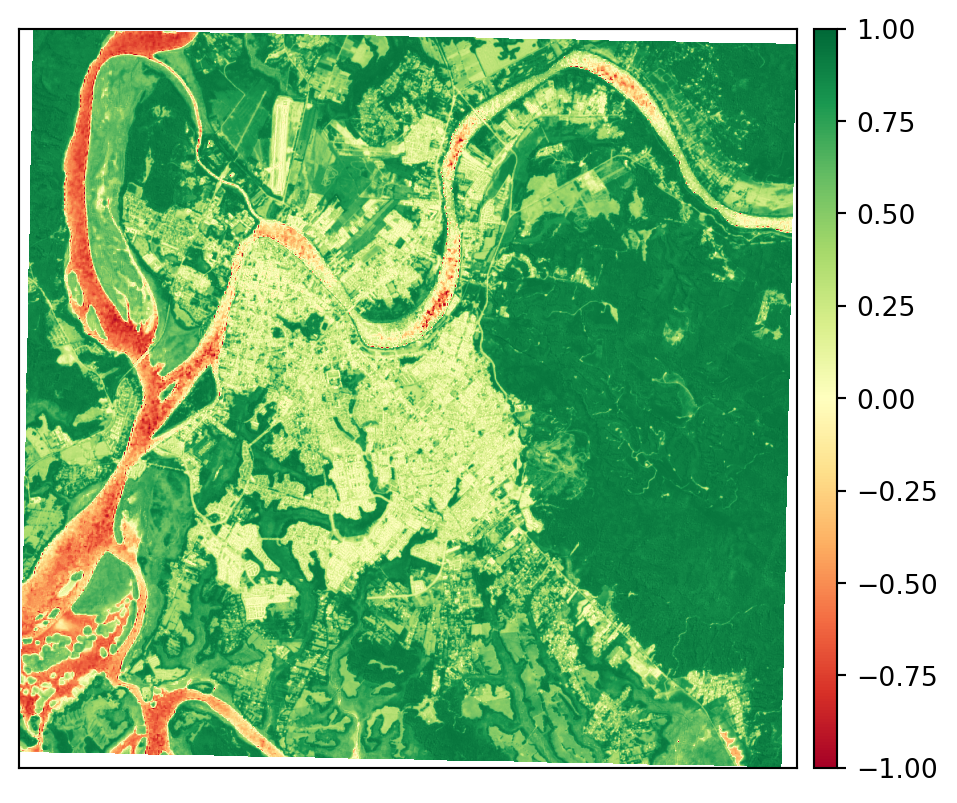
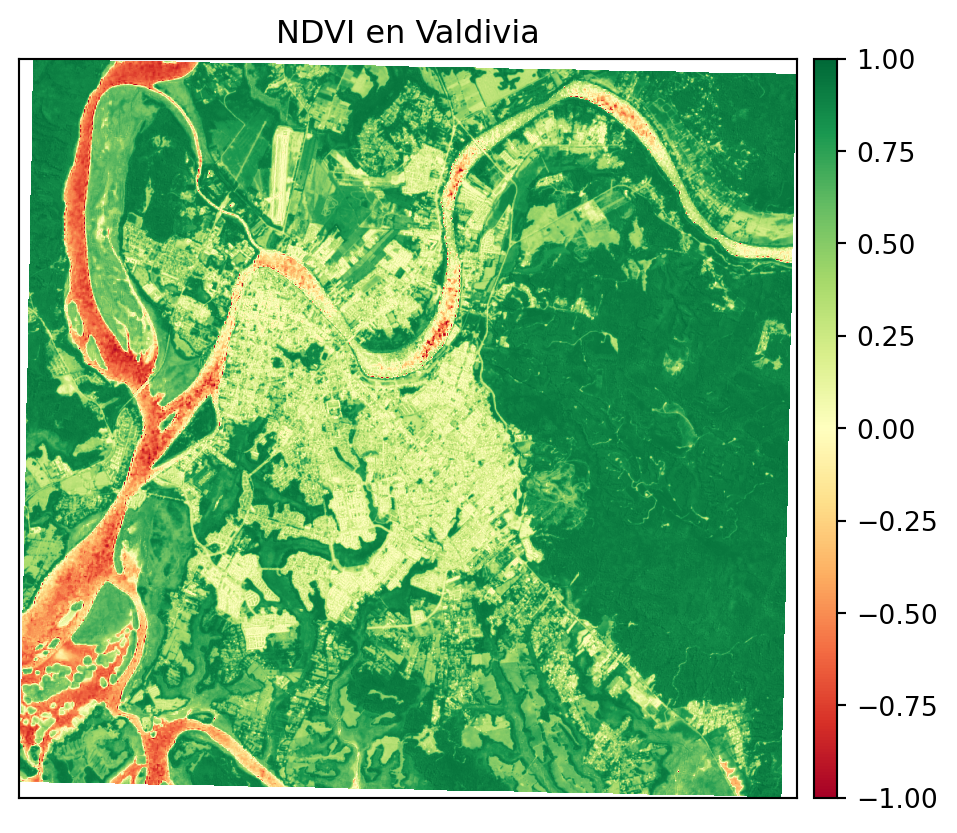
Built site for gh-pages

diff --git a/02-geomatica.html b/02-geomatica.html
@@ -275,7 +275,7 @@ Figura&nbsp;2.1: Composición <em>RGB</em>
 <section id="monobanda" class="level3 unnumbered">
 <h3 class="unnumbered anchored" data-anchor-id="monobanda">Monobanda</h3>
 <p>Son aquellas que solo almacenan una variable o <em>layer</em>. Es común encontrar este tipo de imágenes para almacenar y representar datos de tipo continuo, como la temperatura superficial o la reflectancia. No obstante, se usan también para representar variables de tipo discretas como las categorías de un sistema de clasificación.</p>
-<div id="96676869" class="cell" data-execution_count="1">
+<div id="579825bc" class="cell" data-execution_count="1">
 <div class="cell-output cell-output-display">
 <div class="quarto-figure quarto-figure-center">
 <figure class="figure">
@@ -299,7 +299,7 @@ Figura&nbsp;2.1: Composición <em>RGB</em>
 <pre><code>/usr/share/miniconda/envs/tallerpython/lib/python3.10/site-packages/earthpy/spatial.py:561: RuntimeWarning: invalid value encountered in cast
   return (bytedata.clip(low, high) + 0.5).astype("uint8")</code></pre>
 </div>
-<div id="95e6718b" class="cell quarto-layout-panel" data-layout-nrow="2" data-execution_count="2">
+<div id="e3fe66da" class="cell quarto-layout-panel" data-layout-nrow="2" data-execution_count="2">
 <div class="quarto-layout-row">
 <div class="quarto-layout-cell" style="flex-basis: 100.0%;justify-content: flex-start;">
 <div class="quarto-figure quarto-figure-center">
@@ -373,7 +373,7 @@ Figura&nbsp;2.4: Bandas de <em>Sentinel</em>.
 <h2 data-number="2.7" class="anchored" data-anchor-id="dentro-de-python"><span class="header-section-number">2.7</span> Dentro de <em>Python</em></h2>
 <p>En <em>Python</em> las librerías principales para poder trabajar con datos raster son <code>rasterio</code> y <code>earthpy</code>. <code>rasterio</code> es una librería de <em>Python</em> diseñada para leer y escribir datos raster geoespaciales, mientras que <code>earthpy</code> facilita el manejo de multiples tipos de datos, lidiando con su descarga, descompresión y visualización.</p>
 <p>Por ejemplo, se cargará e imprimirá la información de un raster de elevación (<em>DEM</em>)</p>
-<div id="dadab5a9" class="cell" data-execution_count="4">
+<div id="15976612" class="cell" data-execution_count="4">
 <div class="sourceCode cell-code" id="cb2"><pre class="sourceCode numberSource python number-lines code-with-copy"><code class="sourceCode python"><span id="cb2-1"><a href="#cb2-1"></a><span class="co"># Importando los paquetes necesarios</span></span>
 <span id="cb2-2"><a href="#cb2-2"></a><span class="im">import</span> os</span>
 <span id="cb2-3"><a href="#cb2-3"></a><span class="im">import</span> rasterio <span class="im">as</span> rio</span>
@@ -393,7 +393,7 @@ La imagen tiene EPSG:32613.</code></pre>
 </div>
 </div>
 <p>A través de <code>earthpy</code> podemos visualizarlo:</p>
-<div id="fd3384dd" class="cell" data-execution_count="5">
+<div id="8bf3806f" class="cell" data-execution_count="5">
 <div class="sourceCode cell-code" id="cb4"><pre class="sourceCode numberSource python number-lines code-with-copy"><code class="sourceCode python"><span id="cb4-1"><a href="#cb4-1"></a>f, ax <span class="op">=</span> plt.subplots()</span>
 <span id="cb4-2"><a href="#cb4-2"></a></span>
 <span id="cb4-3"><a href="#cb4-3"></a>ep.plot_bands(DEM,</span>
@@ -415,7 +415,7 @@ La imagen tiene EPSG:32613.</code></pre>
 <h2 class="unnumbered anchored" data-anchor-id="ejercicios">Ejercicios</h2>
 <ol type="1">
 <li><p>Cargar y visualizar el siguiente <a href="https://github.com/Aloniss/taller.github.io/raw/refs/heads/master/recursos/descarga/imagenElevationVal.tif">Modelo de Elevación Digital</a>.</p></li>
-<li><p>De la misma manera, descargue la <a href="https://github.com/Aloniss/taller.github.io/raw/refs/heads/master/recursos/descarga/senImagenFullBands.tif">imagen Sentinel</a>y visualice cada banda que posea.</p></li>
+<li><p>De la misma manera, descargue la <a href="https://github.com/Aloniss/taller.github.io/raw/refs/heads/master/recursos/valdiviaSentinel.tif">imagen Sentinel</a>y visualice cada banda que posea.</p></li>
 <li><p>De acuerdo con la teoría del color, visualice varias composiciones que representen distintas características de la imagen. Puede usar la siguiente <a href="https://mappinggis.com/2019/05/combinaciones-de-bandas-en-imagenes-de-satelite-landsat-y-sentinel/">página</a> para orientarse.</p></li>
 <li><p>Descargue esta <a href="https://github.com/Aloniss/taller.github.io/raw/refs/heads/master/recursos/descarga/img-rgb.tif">imagen</a> y visualice la composición, observe los histogramas de sus bandas.</p>
 <ol type="i">

diff --git a/03-imagenes.html b/03-imagenes.html
@@ -387,8 +387,8 @@ Tabla&nbsp;3.1: Categorías de severidad del <em>dNBR</em> según el <em>US Fore
 <section id="dentro-de-python" class="level2" data-number="3.2">
 <h2 data-number="3.2" class="anchored" data-anchor-id="dentro-de-python"><span class="header-section-number">3.2</span> Dentro de <em>Python</em></h2>
 <p>En el <a href="02-geomatica.html" class="quarto-xref">Módulo&nbsp;<span>2</span></a> aprendimos a cargar un raster en Python utilizando <em>Rasterio</em>. Es importante recordar que una imagen raster puede ser interpretada como una matriz, la cual <em>Numpy</em> puede manejar como un array. En el caso de una imagen monobanda, esta se representará como una matriz de <span class="math inline">\(n\)</span> filas por <span class="math inline">\(n\)</span> columnas. Por otro lado, una imagen multiespectral estará compuesta por múltiples matrices apiladas.</p>
-<p>Una vez cargado el raster, se pueden separar sus capas (bandas) y poder realizar las transformaciones espectrales. En el siguiente ejemplo, se cargará una imagen de Valdivia y se le calculará su <code>NDVI</code>:</p>
-<div id="132cc532" class="cell" data-execution_count="2">
+<p>Una vez cargado el raster, se pueden separar sus capas (bandas) y poder realizar las transformaciones espectrales. En el siguiente ejemplo, se cargará una imagen de Valdivia y se le calculará el <code>NDVI</code>:</p>
+<div id="8088c7b2" class="cell" data-execution_count="2">
 <div class="sourceCode cell-code" id="cb1"><pre class="sourceCode numberSource python number-lines code-with-copy"><code class="sourceCode python"><span id="cb1-1"><a href="#cb1-1"></a><span class="co"># Importación de librerías</span></span>
 <span id="cb1-2"><a href="#cb1-2"></a><span class="im">import</span> os</span>
 <span id="cb1-3"><a href="#cb1-3"></a><span class="im">import</span> rasterio <span class="im">as</span> rio</span>
@@ -415,11 +415,12 @@ Tabla&nbsp;3.1: Categorías de severidad del <em>dNBR</em> según el <em>US Fore
 <span id="cb1-24"><a href="#cb1-24"></a>              vmin <span class="op">=</span> <span class="op">-</span><span class="dv">1</span>,</span>
 <span id="cb1-25"><a href="#cb1-25"></a>              vmax <span class="op">=</span> <span class="dv">1</span>,</span>
 <span id="cb1-26"><a href="#cb1-26"></a>              ax <span class="op">=</span> ax)</span>
-<span id="cb1-27"><a href="#cb1-27"></a>plt.show()</span></code><button title="Copiar al portapapeles" class="code-copy-button"><i class="bi"></i></button></pre></div>
+<span id="cb1-27"><a href="#cb1-27"></a>ax.set_title(<span class="st">"NDVI en Valdivia"</span>)</span>
+<span id="cb1-28"><a href="#cb1-28"></a>plt.show()</span></code><button title="Copiar al portapapeles" class="code-copy-button"><i class="bi"></i></button></pre></div>
 <div class="cell-output cell-output-display">
-<div>
+<div class="quarto-figure quarto-figure-center">
 <figure class="figure">
-<p><img src="03-imagenes_files/figure-html/cell-3-output-1.png" width="479" height="402" class="figure-img"></p>
+<p><img src="03-imagenes_files/figure-html/cell-3-output-1.png" class="quarto-figure quarto-figure-center figure-img" width="479" height="417"></p>
 </figure>
 </div>
 </div>

diff --git a/01-python-librerias.html b/01-python-librerias.html
@@ -556,7 +556,7 @@ Figura&nbsp;1.13: Perfilador (<em>Profiler</em>) dentro de <em>Spyder</em>
 <section id="ejemplo" class="level3 unnumbered">
 <h3 class="unnumbered anchored" data-anchor-id="ejemplo">Ejemplo</h3>
 <p>Una vez explicado los pasos a seguir, se tiene que implementar en código. Este tendrá la siguiente forma:</p>
-<div id="73962313" class="cell" data-execution_count="1">
+<div id="5a65b8d0" class="cell" data-execution_count="1">
 <div class="sourceCode cell-code" id="annotated-cell-1"><pre class="sourceCode numberSource python code-annotation-code number-lines code-with-copy code-annotated"><code class="sourceCode python"><a class="code-annotation-anchor" data-target-cell="annotated-cell-1" data-target-annotation="1" onclick="event.preventDefault();">1</a><span id="annotated-cell-1-1" class="code-annotation-target"><a href="#annotated-cell-1-1"></a><span class="im">import</span> os</span>
 <span id="annotated-cell-1-2"><a href="#annotated-cell-1-2"></a><span class="im">import</span> geopandas <span class="im">as</span> gpd</span>
 <span id="annotated-cell-1-3"><a href="#annotated-cell-1-3"></a><span class="im">import</span> matplotlib.pyplot <span class="im">as</span> plt</span>
@@ -595,7 +595,7 @@ Figura&nbsp;1.13: Perfilador (<em>Profiler</em>) dentro de <em>Spyder</em>
 </div>
 </div>
 <p>Si todo va bien, el resultado del script sería la figura mostrada abajo:</p>
-<div id="367c97b7" class="cell" data-execution_count="2">
+<div id="a630d1e4" class="cell" data-execution_count="2">
 <div class="cell-output cell-output-display">
 <div class="quarto-figure quarto-figure-center">
 <figure class="figure">
